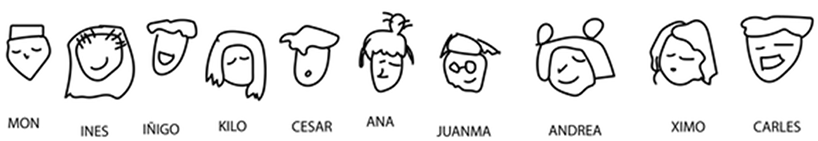
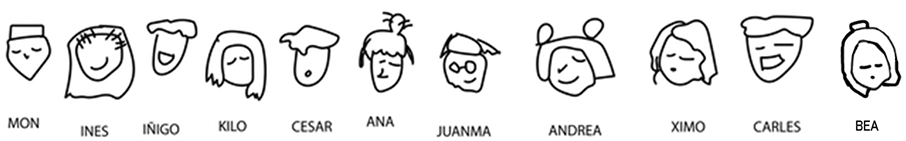
Bio: Bea con el colectivo, caras en dos filas también en ordenador; texto algo más pequeño
Claude-Session: https://claude.ai/code/session_01LMvYath7NJbLrbHqfYB4GX

diff --git a/docs/style.css b/docs/style.css
@@ -40,7 +40,7 @@ body {
   background: #fff;
   color: #000;
   font-family: var(--sans);
-  font-size-adjust: 0.47;
+  font-size-adjust: 0.45;
 }
 img { max-width: 100%; height: auto; display: block; border: 0; }
 a { color: inherit; text-decoration: none; }
@@ -167,14 +167,15 @@ iframe { max-width: 100%; border: 0; }
 .bio-marker svg { width: 100%; height: auto; display: block; }
 
 /* bio: caras dibujadas */
-.caras-filas { display: none; }
+.caras-filas { display: block; width: 100%; margin: .6rem 0 .2rem; }
+.caras-filas img { display: block; width: 100%; height: auto; margin-bottom: 1rem; }
 
 /* ---- visibilidad ordenador / móvil ---- */
 .only-mobile { display: none !important; }
 
 @media (max-width: 768px) {
   html { font-size: 81.25%; }
-  body { font-size-adjust: 0.5; }
+  body { font-size-adjust: 0.47; }
   .only-desktop { display: none !important; }
   .only-mobile { display: block !important; }
   .page, .pin { width: 100% !important; margin: 0 !important; }
@@ -210,7 +211,6 @@ iframe { max-width: 100%; border: 0; }
   .site-nav-mobile .menu [grid-col] { padding: 0; width: auto !important; }
   .site-nav-mobile .menu a { color: #000; }
   .bio-marker { position: static; width: 100%; padding: 0 0 1rem; }
-  .caras-tira { display: none !important; }
-  .caras-filas { display: block; width: 90%; margin: .4rem auto .2rem; }
-  .caras-filas img { display: block; width: 100%; height: auto; margin-bottom: .9rem; }
+  .caras-filas { width: 90%; margin: .4rem auto .2rem; }
+  .caras-filas img { margin-bottom: .8rem; }
 }

diff --git a/docs/bio-1.html b/docs/bio-1.html
@@ -59,7 +59,7 @@ Somos Inés Miño Izquierdo, Íñigo Barrón García, Juan Manuel López Carreñ
 
 Rafa Verdú Santamaría y debemos nuestros inicios como colectivo a gente tan querida como Sofía Ruiz, Nacho Burgos o Álvaro Copete, entre muchos otros.<br/>
 <br/>
-<span class="caras"><img class="caras-tira only-desktop-inline" alt="" decoding="async" height="236" loading="lazy" sizes="100vw" src="img/5ab3db8f7e_l4p3.png" srcset="img/5ab3db8f7e_l4p3-800.jpg 800w, img/5ab3db8f7e_l4p3.png 1693w" width="1693"/><span class="caras-filas"><img src="img/caras-1.png" width="818" height="141" alt="Caras dibujadas de las integrantes de La Cuarta Piel" loading="lazy"><img src="img/caras-2.png" width="643" height="141" alt="" loading="lazy" style="width:78.6%"></span></span>
+<span class="caras-filas"><img src="img/caras-1.png?v=2" width="906" height="141" alt="Caras dibujadas de las integrantes de La Cuarta Piel" loading="lazy"><img src="img/caras-2.png?v=2" width="531" height="141" alt="Caras dibujadas de amigas y amigos colaboradores" loading="lazy" style="width:58.6%"></span>
 </div></div>
 
 </main>
